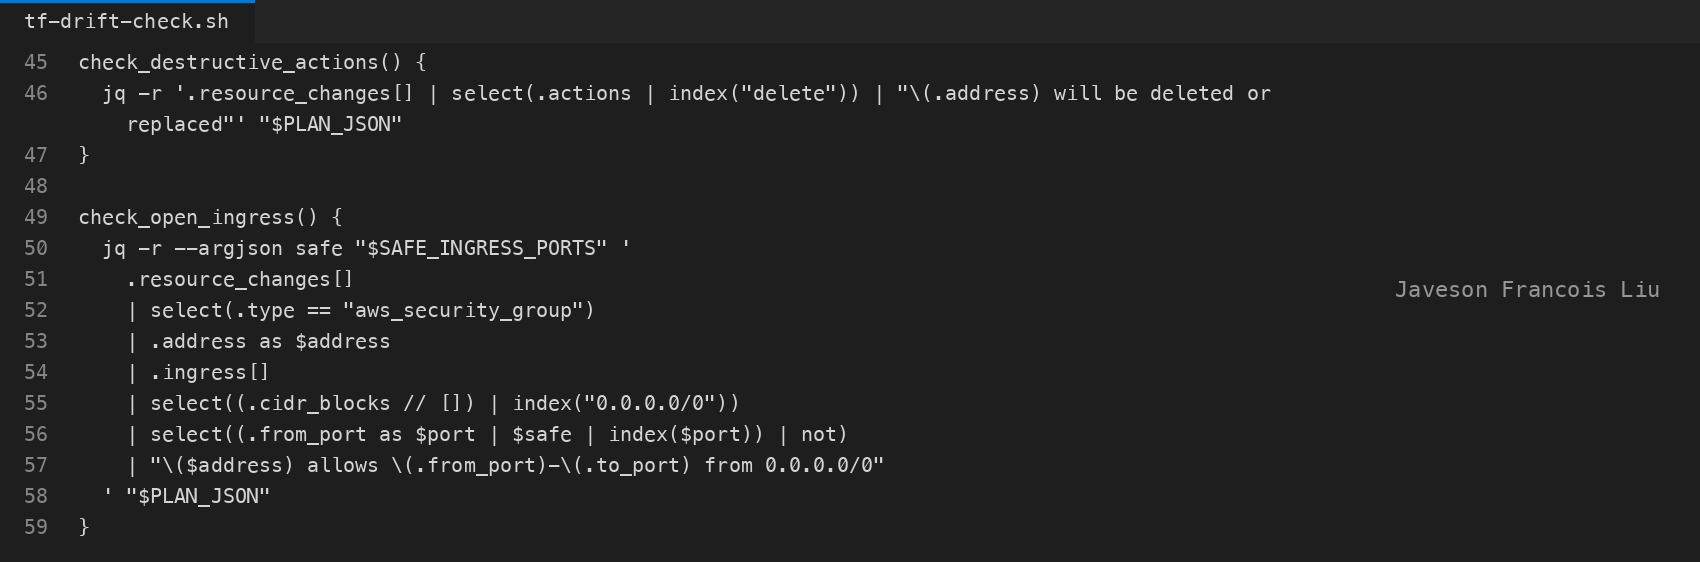
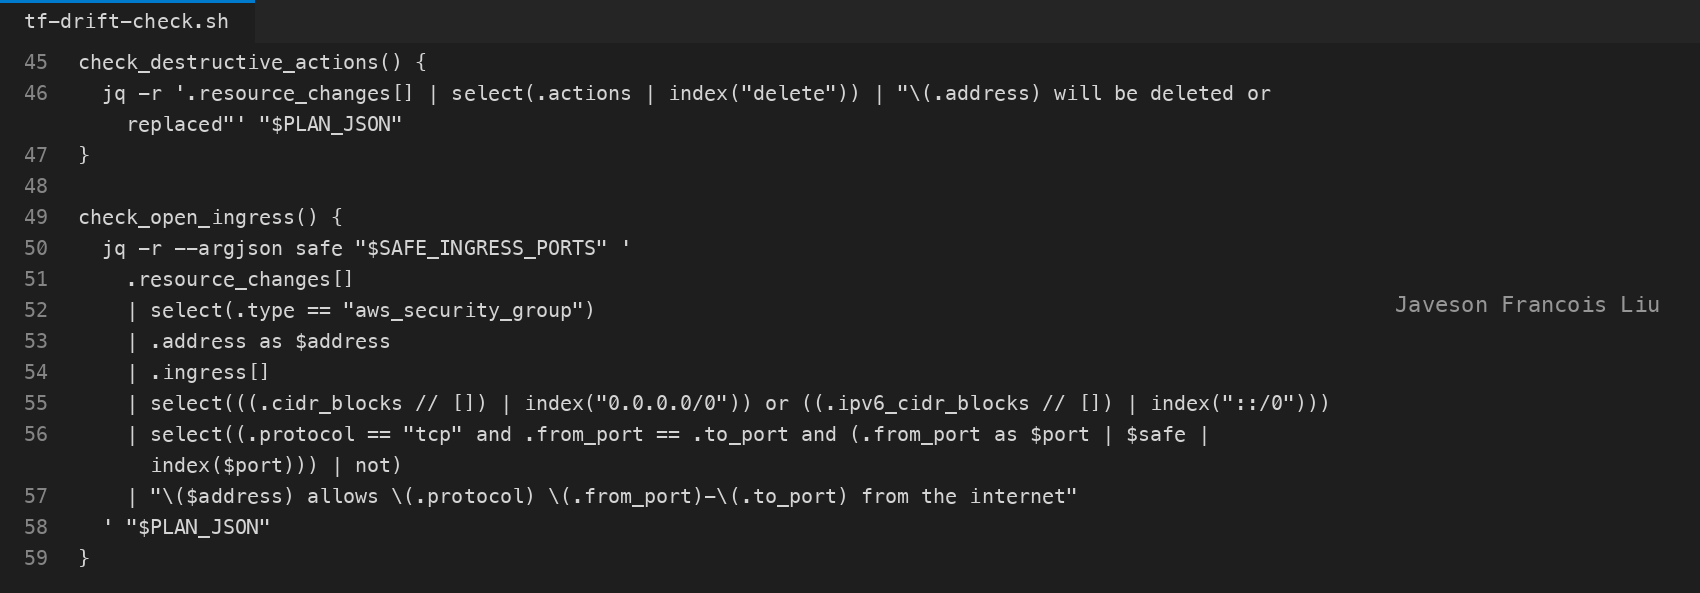
fix(week-08): flag port ranges and IPv6 open ingress in drift check
The ingress policy check only inspected from_port and the IPv4 0.0.0.0/0 CIDR,
so a range such as 80-443, protocol -1 or ::/0 could pass. It now requires a
single tcp port from the safe list and also checks ::/0. A05 markdown gains a
known limitations note (HTTP only, default health page, no Auto Scaling,
1-day backups). End state: verified against six synthetic plan cases.

diff --git a/week-08-terraform/assignment-05-deploy-book-review-app-in-your-favorite-cloud-agentic-terraform-project.md b/week-08-terraform/assignment-05-deploy-book-review-app-in-your-favorite-cloud-agentic-terraform-project.md
@@ -296,6 +296,8 @@ Add a screenshot showing successful database reads and writes.
 
 **Public Application URL / DNS:** http://bookreview-public-alb-568511805.ap-southeast-5.elb.amazonaws.com
 
+**Known limitations:** the public ALB serves HTTP only because the lab has no domain or ACM certificate, so HTTPS would be the first production step. The public ALB health check passes on the default Nginx page before the app is built, so a stricter health path should be used. There is no Auto Scaling, and RDS backup retention is 1 day because the free tier caps it.
+
 ---
 
 # Task 7 — Demonstrate the Agentic AI Workflow
